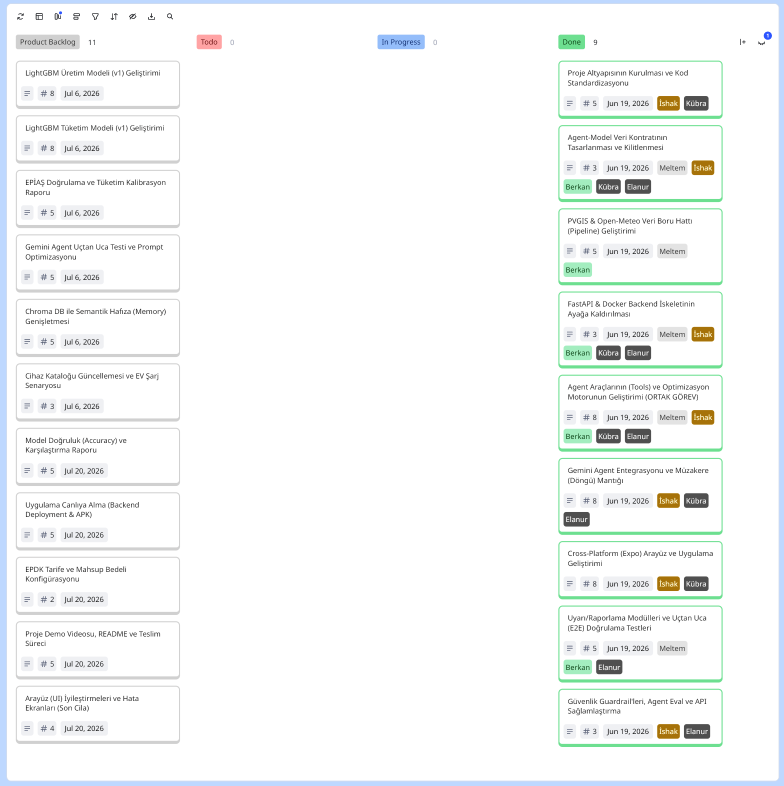
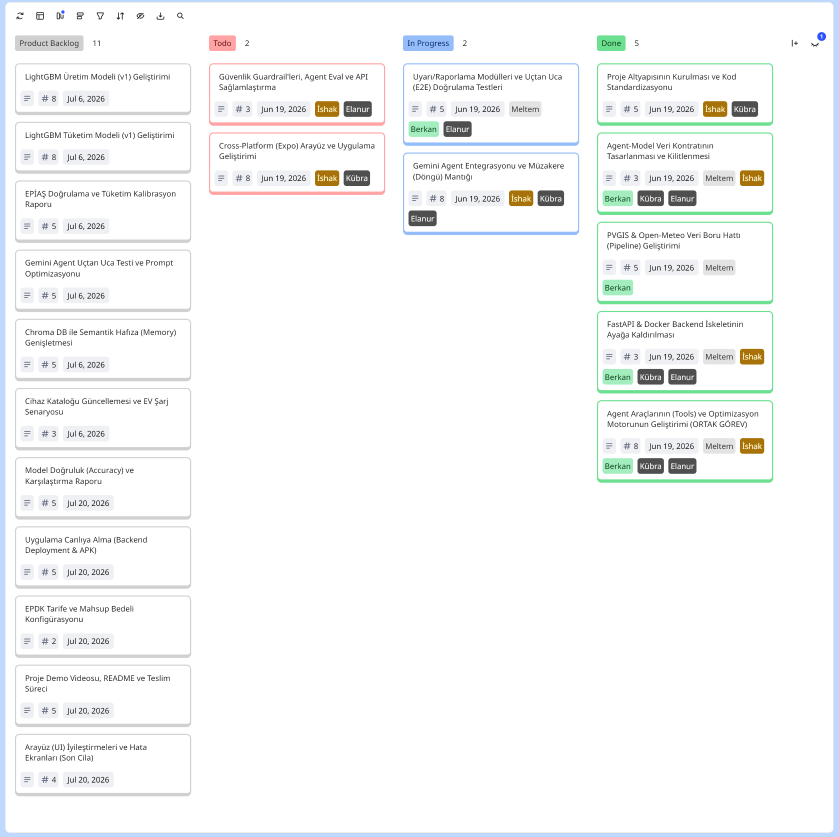
docs: update README and add sprint 1 scrumboard visualization

diff --git a/README.md b/README.md
@@ -80,19 +80,21 @@ faturasını düşürmek ve güneşinden en yüksek faydayı almak isteyen herke
 ![Daily Scrum](docs/gorseller/sprint1_meet.png)
 
 
-**Sprint Board Updates**
+**Sprint Board Ekran Görüntüleri**
 ![Sprint Board Updates](docs/gorseller/sprint1_scrumboard.png)
 
+![Sprint Board Updates](docs/gorseller/sprint1_scrumboard2.png)
 
+![Sprint Board Updates](docs/gorseller/sprint1_burndownChart.png)
 
-## Ekran Görüntüleri
+## Ürün Ekran Görüntüleri
 
 | Onboarding | Günlük Plan | Asistan |
 |---|---|---|
 | ![Onboarding](docs/gorseller/adim1_onboarding.png) | ![Plan](docs/gorseller/adim3_bugun.png) | ![Asistan](docs/gorseller/adim4_asistan.png) |
 
 
-**Sprint Review:** Hangi verisetlerinin kullanılacağı ve API'lerin entegre edilip edilmeyeceği kararlaştırıldı. Model araştırmalarına başlandı. Ürün arayüz tasarımları tamamlandı ve demo planlaması yapıldı.
+**Sprint Review:** Hangi veri setlerinin kullanılacağına karar verilip PVGIS ve Open-Meteo API entegrasyonları yapılarak veri çekme scriptleri yazıldı. FastAPI ile backend iskeleti oluşturuldu ve Expo kullanılarak mobil/web uygulamasının temel sayfaları (onboarding, plan, asistan vb.) kodlandı. Ayrıca agent yapısı için 6 farklı tool geliştirilerek optimizasyon motoru devreye alındı ve kapsamlı testlerle (uçtan uca doğrulama) sistem sağlamlaştırıldı.
 
 **Sprint Retrospective:** Diğer 2 sprintte daha verimli çalışılacağına ve daha planlı toplantı yapılması gerektiğine karar verildi.
 